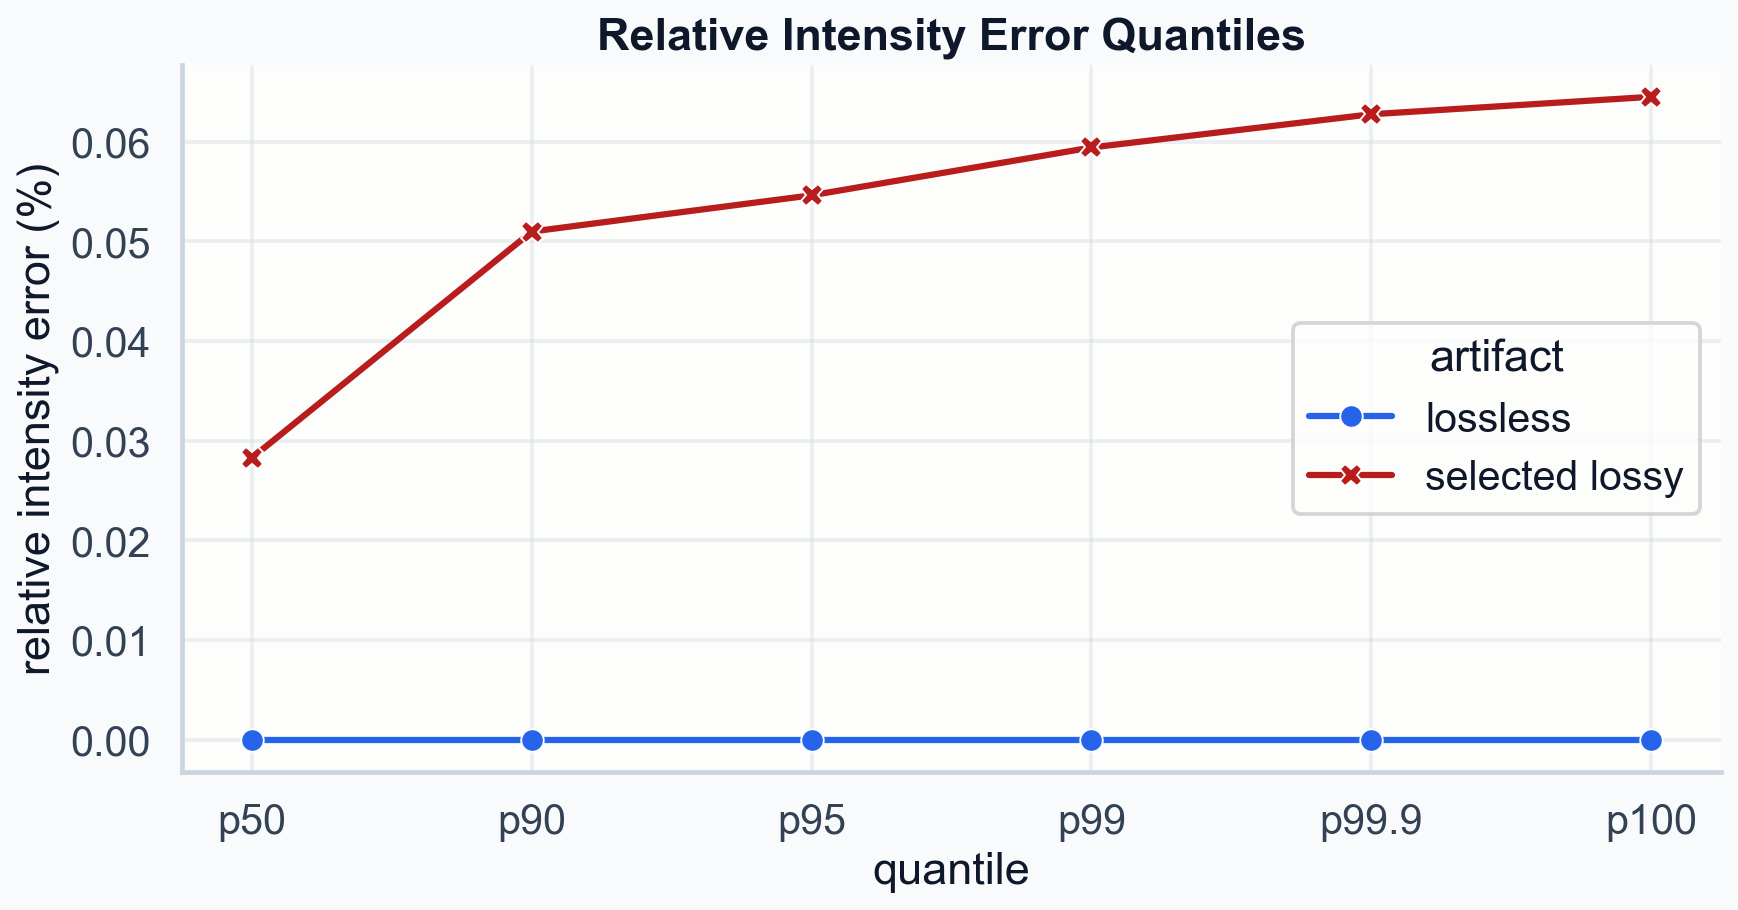
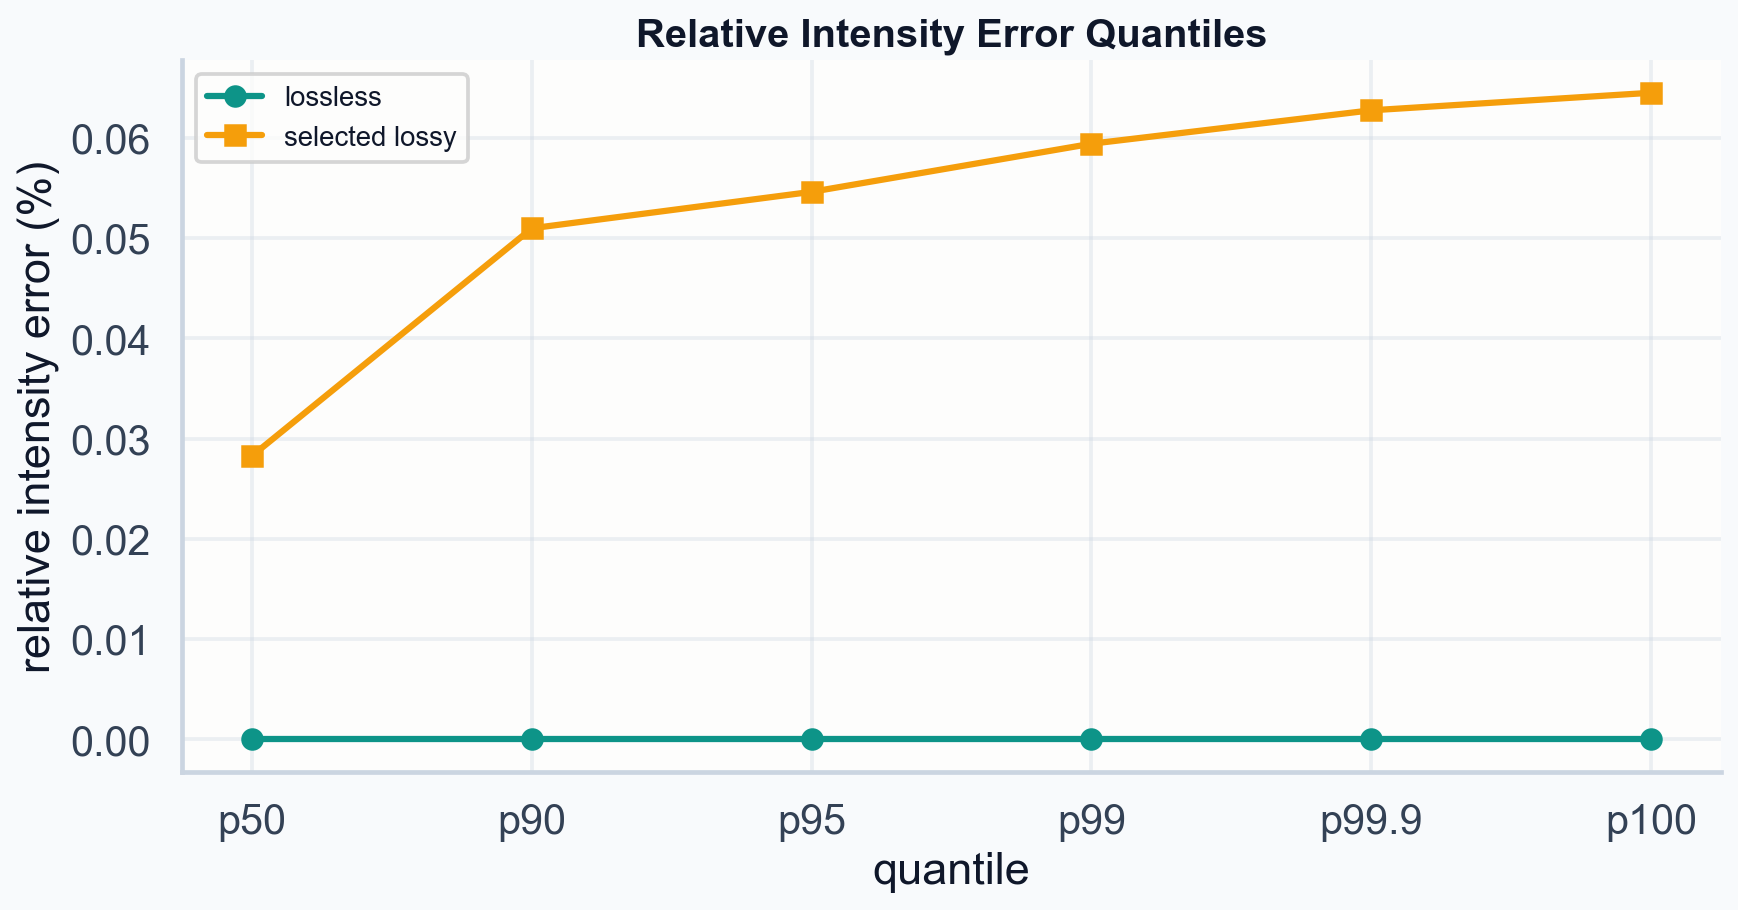
benchmark: clean up plots - remove dead code, orphaned files, update all styles

diff --git a/tools/benchmark_plotting.py b/tools/benchmark_plotting.py
@@ -104,10 +104,6 @@ def _color(name: str) -> str:
     return _COLORS.get(key, "#475569")
 
 
-def _artifact_palette(artifact_names: list[str]) -> list[str]:
-    return [_color(n) for n in artifact_names]
-
-
 def _display_label(name: str) -> str:
     """Return display label, appending [MT] for multi-threaded artifacts."""
     if name in _MULTI_THREAD:
@@ -375,33 +371,62 @@ def plot_fidelity_overview(fidelity_rows: list[dict[str, object]], path: Path) -
 
 
 def plot_lossy_tradeoff(lossy_rows: list[dict[str, object]], selected_quant: int, path: Path) -> None:
+    """Size vs intensity error tradeoff across mzarc lossy quantization levels.
+
+    The currently-selected quantization level is highlighted in vivid amber;
+    other sweep points are shown in lighter amber.  An annotation on each
+    point shows the quantization step and the p95 error value.
+    """
+    if not lossy_rows:
+        fig, ax = plt.subplots(figsize=(9.8, 5.8))
+        ax.axis("off")
+        ax.text(0.5, 0.5, "No lossy sweep data available",
+                ha="center", va="center", fontsize=16)
+        fig.tight_layout()
+        fig.savefig(path, bbox_inches="tight")
+        plt.close(fig)
+        return
+
     frame = pd.DataFrame(lossy_rows)
     frame["selected"] = frame["intensity_quant"].astype(int) == int(selected_quant)
 
-    fig, ax = plt.subplots(figsize=(9.8, 5.8))
-    sns.lineplot(data=frame, x="size_mib", y="p95_rel_intensity_error_pct", color="#c2410c", linewidth=2.5, ax=ax)
-    sns.scatterplot(
-        data=frame,
-        x="size_mib",
-        y="p95_rel_intensity_error_pct",
-        hue="selected",
-        palette={True: "#b91c1c", False: "#7c3aed"},
-        s=110,
-        legend=False,
-        ax=ax,
-    )
+    unsel_color = "#fcd34d"   # light amber for other sweep points
+    sel_color   = _COLORS["mzarc_lossy"]  # vivid amber for selected
 
+    fig, ax = plt.subplots(figsize=(9.8, 5.8))
+    ax.plot(
+        frame["size_mib"], frame["p95_rel_intensity_error_pct"],
+        color=sel_color, linewidth=2.2, zorder=1,
+    )
     for _, row in frame.iterrows():
+        is_sel = bool(row["selected"])
+        ax.scatter(
+            float(row["size_mib"]), float(row["p95_rel_intensity_error_pct"]),
+            color=sel_color if is_sel else unsel_color,
+            edgecolors="#78350f",
+            s=140 if is_sel else 90,
+            linewidths=1.2,
+            zorder=2,
+        )
         ax.text(
             float(row["size_mib"]) + 0.03,
-            float(row["p95_rel_intensity_error_pct"]) + 0.03,
-            f"q={int(row['intensity_quant'])}",
-            fontsize=10,
+            float(row["p95_rel_intensity_error_pct"]) + 0.005,
+            f"q={int(row['intensity_quant'])}\n({float(row['p95_rel_intensity_error_pct']):.3f}%)",
+            fontsize=9.5,
+            color="#78350f" if is_sel else "#92400e",
+            fontweight="bold" if is_sel else "normal",
         )
 
-    ax.set_title("Lossy Tradeoff")
+    ax.set_title("mzarc Lossy Quantization Tradeoff", fontsize=16, fontweight="bold")
     ax.set_xlabel("encoded size (MiB)")
     ax.set_ylabel("p95 relative intensity error (%)")
+    legend_items = [
+        plt.scatter([], [], color=sel_color, edgecolors="#78350f", s=140, linewidths=1.2,
+                    label=f"selected  (q={selected_quant})"),
+        plt.scatter([], [], color=unsel_color, edgecolors="#78350f", s=90, linewidths=1.2,
+                    label="other sweep points"),
+    ]
+    ax.legend(handles=legend_items, fontsize=10)
     fig.tight_layout()
     fig.savefig(path, bbox_inches="tight")
     plt.close(fig)
@@ -485,42 +510,61 @@ def plot_memory_footprint(memory_rows: list[dict[str, object]], path: Path) -> N
 
 
 def plot_intensity_quantiles(quantile_rows: list[dict[str, object]], path: Path) -> None:
+    """Relative intensity error at each quantile for mzarc lossless and selected lossy.
+
+    Lossless is shown in vivid teal (error is zero everywhere).
+    The selected lossy configuration uses amber to match the lossy color scheme.
+    """
+    if not quantile_rows:
+        fig, ax = plt.subplots(figsize=(10.0, 5.4))
+        ax.axis("off")
+        ax.text(0.5, 0.5, "No quantile data available",
+                ha="center", va="center", fontsize=16)
+        fig.tight_layout()
+        fig.savefig(path, bbox_inches="tight")
+        plt.close(fig)
+        return
+
     frame = pd.DataFrame(quantile_rows)
+    palette = {
+        "lossless":      _COLORS["mzarc_lossless"],
+        "selected lossy": _COLORS["mzarc_lossy"],
+    }
+    marker_map = {"lossless": "o", "selected lossy": "s"}
 
     fig, ax = plt.subplots(figsize=(10.0, 5.4))
-    sns.lineplot(
-        data=frame,
-        x="quantile_label",
-        y="value_pct",
-        hue="artifact",
-        style="artifact",
-        markers=True,
-        dashes=False,
-        linewidth=2.5,
-        palette={"lossless": "#2563eb", "selected lossy": "#b91c1c"},
-        ax=ax,
-    )
+    for artifact, group in frame.groupby("artifact", sort=False):
+        color  = palette.get(str(artifact), "#94a3b8")
+        marker = marker_map.get(str(artifact), "o")
+        ax.plot(
+            group["quantile_label"], group["value_pct"],
+            color=color, linewidth=2.5, marker=marker, markersize=8,
+            label=str(artifact),
+        )
 
-    ax.set_title("Relative Intensity Error Quantiles")
+    ax.set_title("Relative Intensity Error Quantiles", fontsize=16, fontweight="bold")
     ax.set_xlabel("quantile")
     ax.set_ylabel("relative intensity error (%)")
+    ax.legend(fontsize=11)
     fig.tight_layout()
     fig.savefig(path, bbox_inches="tight")
     plt.close(fig)
 
 
 def plot_stat_comparisons(comparisons: list[dict], path: Path) -> None:
-    """Bar chart of speed ratios from Mann-Whitney U and Wilcoxon comparisons.
+    """Speed-ratio bar chart from Mann-Whitney U / Wilcoxon comparisons.
 
-    Speed ratio = mzarc_median / baseline_median (or encode_median / decode_median).
-    Bars < 1.0 mean mzarc is faster.  Color by statistical significance:
-    green = significant and mzarc faster, red = significant and mzarc slower,
+    Only comparisons that carry a speed_ratio are plotted (encode vs decode
+    comparisons have no meaningful ratio, so they are omitted here).
+    Bars < 1.0 mean mzarc is faster.  Colour by statistical significance:
+    teal = significant and mzarc faster, rose = significant and mzarc slower,
     gray = not significant.
     """
     if not comparisons:
         fig, ax = plt.subplots(figsize=(7.0, 4.0))
         ax.axis("off")
-        ax.text(0.5, 0.5, "No statistical comparison data available", ha="center", va="center", fontsize=13)
+        ax.text(0.5, 0.5, "No statistical comparison data available",
+                ha="center", va="center", fontsize=13)
         fig.tight_layout()
         fig.savefig(path, bbox_inches="tight")
         plt.close(fig)
@@ -530,48 +574,49 @@ def plot_stat_comparisons(comparisons: list[dict], path: Path) -> None:
     for c in comparisons:
         ratio = c.get("speed_ratio")
         if ratio is None:
-            continue
+            continue   # skip encode-vs-decode entries (no meaningful ratio)
         sig = bool(c.get("significant", False))
         name_a = str(c.get("name_a", c.get("operation_a", "")))
         name_b = str(c.get("name_b", c.get("operation_b", "")))
-        label = f"{name_a}\nvs {name_b}"
-        p_val = c.get("p_value")
-        p_str = f" (p={p_val:.3f})" if p_val is not None else ""
-        labels.append(label + p_str)
+        p_val  = c.get("p_value")
+        p_str  = f"  (p={p_val:.3f})" if p_val is not None else ""
+        labels.append(f"{name_a}\nvs {name_b}{p_str}")
         ratios.append(float(ratio))
         if sig and ratio < 1.0:
-            colors.append("#0f766e")   # green: mzarc faster, significant
+            colors.append(_COLORS["mzarc_lossless"])   # teal: mzarc faster
         elif sig and ratio > 1.0:
-            colors.append("#dc2626")   # red: mzarc slower, significant
+            colors.append("#e11d48")                    # rose: mzarc slower
         else:
-            colors.append("#94a3b8")   # gray: not significant
+            colors.append("#94a3b8")                    # gray: not significant
 
     if not labels:
         fig, ax = plt.subplots(figsize=(7.0, 4.0))
         ax.axis("off")
-        ax.text(0.5, 0.5, "All comparisons missing speed_ratio", ha="center", va="center", fontsize=13)
+        ax.text(0.5, 0.5, "All comparisons missing speed_ratio",
+                ha="center", va="center", fontsize=13)
         fig.tight_layout()
         fig.savefig(path, bbox_inches="tight")
         plt.close(fig)
         return
 
-    fig_height = max(4.0, len(labels) * 0.9 + 1.5)
-    fig, ax = plt.subplots(figsize=(9.0, fig_height))
+    fig_height = max(4.0, len(labels) * 1.1 + 1.5)
+    fig, ax = plt.subplots(figsize=(10.0, fig_height))
     y_pos = range(len(labels))
-    bars = ax.barh(list(y_pos), ratios, color=colors, edgecolor="#0f172a", linewidth=0.5, height=0.6)
-    ax.axvline(1.0, color="#475569", linestyle="--", linewidth=1.2, label="ratio = 1 (equal)")
+    ax.barh(list(y_pos), ratios, color=colors, edgecolor="#0f172a",
+            linewidth=0.5, height=0.55)
+    ax.axvline(1.0, color="#475569", linestyle="--", linewidth=1.2)
     ax.set_yticks(list(y_pos))
-    ax.set_yticklabels(labels, fontsize=8)
-    ax.set_xlabel("speed ratio (mzarc time / baseline time — lower is faster for mzarc)")
-    ax.set_title("Statistical Comparisons: mzarc vs Baselines (Mann-Whitney U)")
+    ax.set_yticklabels(labels, fontsize=9)
+    ax.set_xlabel("speed ratio  (mzarc time / baseline time — lower = mzarc faster)")
+    ax.set_title("Statistical Speed Comparisons  (Mann-Whitney U)", fontsize=15, fontweight="bold")
 
     legend_handles = [
-        mpatches.Patch(color="#0f766e", label="mzarc faster (significant)"),
-        mpatches.Patch(color="#dc2626", label="mzarc slower (significant)"),
-        mpatches.Patch(color="#94a3b8", label="not significant"),
-        plt.Line2D([0], [0], color="#475569", linestyle="--", label="ratio = 1"),
+        mpatches.Patch(color=_COLORS["mzarc_lossless"], label="mzarc faster (significant)"),
+        mpatches.Patch(color="#e11d48",                  label="mzarc slower (significant)"),
+        mpatches.Patch(color="#94a3b8",                  label="not significant"),
+        plt.Line2D([0], [0], color="#475569", linestyle="--", label="ratio = 1  (equal)"),
     ]
-    ax.legend(handles=legend_handles, fontsize=8, loc="lower right")
+    ax.legend(handles=legend_handles, fontsize=9, loc="lower right")
     fig.tight_layout()
     fig.savefig(path, bbox_inches="tight")
     plt.close(fig)
